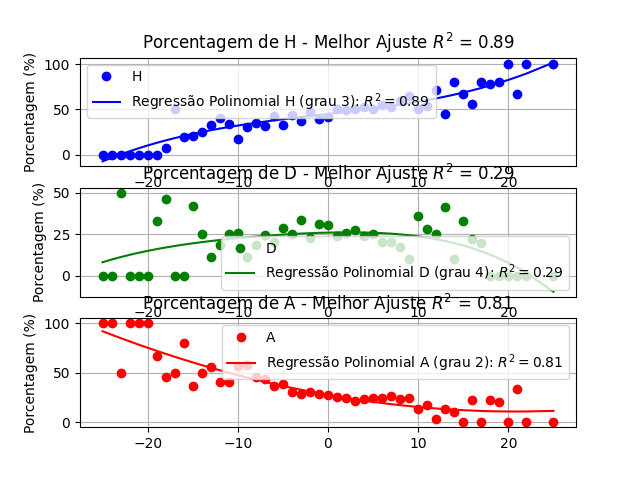
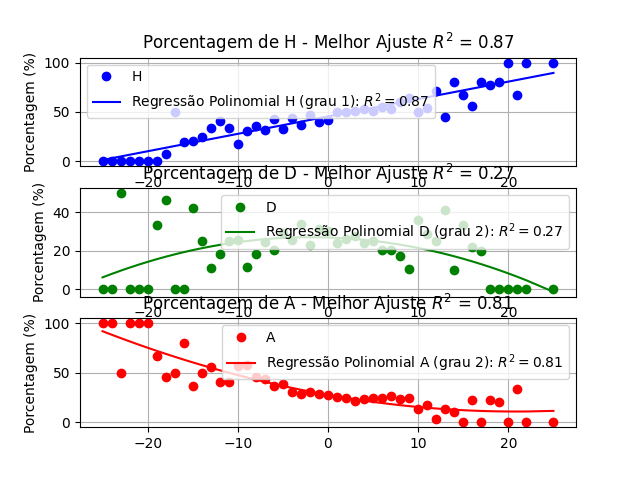
Clean and write some func

diff --git a/Src/regression_polynomial.py b/Src/regression_polynomial.py
@@ -1,0 +1,193 @@
+import numpy as np
+import matplotlib.pyplot as plt
+from sklearn.linear_model import LinearRegression
+from sklearn.preprocessing import PolynomialFeatures
+from sklearn.metrics import r2_score
+
+class RegressionPolynomial:
+    def __init__(self, league_name, stats, match_rating, range):
+        """
+        Constructor method to initialize the class with league name, statistics type,
+        match rating dictionary, and range for match ratings.
+        """
+        self.league_name = league_name
+        self.stats = stats
+        self.match_rating = match_rating
+        self.range = range
+        
+    def transform_match2percentages(self):
+        """
+        Converts the match rating data (home, draw, away) into percentages and stores them
+        in self.H_perc, self.D_perc, and self.A_perc arrays.
+        """
+        self.keys = np.array(list(self.match_rating.keys()))  # Convert keys to NumPy array for regression
+        H_perc = []
+        D_perc = []
+        A_perc = []
+
+        # Calculate percentages for Home (H), Draw (D), and Away (A)
+        for key in self.keys:
+            values = self.match_rating[key]
+            total = sum(values.values())  # Sum of H, D, A
+            if total > 0:
+                H_perc.append((values['H'] / total) * 100)
+                D_perc.append((values['D'] / total) * 100)
+                A_perc.append((values['A'] / total) * 100)
+            else:
+                H_perc.append(0)
+                D_perc.append(0)
+                A_perc.append(0)
+
+        # Convert lists to NumPy arrays
+        self.H_perc = np.array(H_perc)
+        self.D_perc = np.array(D_perc)
+        self.A_perc = np.array(A_perc)
+        
+    def find_best_polynomial_fit(self, X, y, max_degree=4, threshold=0.05):
+        """
+        Finds the best polynomial fit for the given data X and y by testing polynomials 
+        up to a specified degree. Returns the best model, the degree, and the R² score.
+        """
+        best_degree = 1
+        best_r2 = -np.inf
+        best_model = None
+        degrees = range(1, max_degree + 1)
+        r2_values = []
+        
+        # Loop through different degrees of polynomials
+        for degree in degrees:
+            poly = PolynomialFeatures(degree)
+            X_poly = poly.fit_transform(X.reshape(-1, 1))
+            model = LinearRegression().fit(X_poly, y)
+            y_pred = model.predict(X_poly)
+            
+            # Calculate R² score
+            r2 = r2_score(y, y_pred)
+            r2_values.append(r2)
+
+            # Check if current model has the best R² score
+            if r2 > best_r2 + threshold:
+                best_r2 = r2
+                best_degree = degree
+                best_model = model
+            
+        return best_model, best_degree, best_r2 
+
+    def plot_regression(self, keys, match_percentages, color, label):
+        """
+        Plots the data points and fits a polynomial regression curve to them.
+        Displays the best polynomial fit and its R² score.
+        """
+        plt.plot(keys, match_percentages, f'{color}o', label=label)  # Plot original data points
+    
+        # Find the best polynomial fit
+        best_model, best_degree, best_r2 = self.find_best_polynomial_fit(X=keys, y=match_percentages)
+        
+        # Apply polynomial transformation and predict the fit
+        poly = PolynomialFeatures(degree=best_degree)
+        keys_poly = poly.fit_transform(keys.reshape(-1, 1))  # Transform the keys for polynomial fit
+        
+        # Make predictions
+        predictions = best_model.predict(keys_poly)
+        
+        # Plot the polynomial regression curve
+        plt.plot(keys, predictions, f'{color}-', label=f'Polynomial Regression {label} (Degree {best_degree}): $R^2 = {best_r2:.2f}$')
+        plt.title(f'Percentage of {label} - Best Fit $R^2$ = {best_r2:.2f}')
+        plt.ylabel('Percentage (%)')
+        plt.legend()
+        plt.grid(True)
+
+        return best_model, best_degree, best_r2
+                
+    def graphs(self, show_graphs):        
+        """
+        Generates three graphs for Home, Draw, and Away percentages and saves them as a PNG file.
+        Optionally displays the graphs if show_graphs is set to True.
+        """
+        plt.subplot(3, 1, 1)
+        best_model_H, best_degree_H, best_r2_H = self.plot_regression(keys=self.keys, match_percentages=self.H_perc, color='b', label='H')
+        
+        plt.subplot(3, 1, 2)
+        best_model_D, best_degree_D, best_r2_D = self.plot_regression(keys=self.keys, match_percentages=self.D_perc, color='g', label='D')
+
+        plt.subplot(3, 1, 3)
+        best_model_A, best_degree_A, best_r2_A = self.plot_regression(keys=self.keys, match_percentages=self.A_perc, color='r', label='A')
+        
+        # Save the graph as a PNG file
+        plt.savefig(fr'D:\LUCAS\Match Rating\Database\{ self.league_name }\Graphs\{ self.stats }.png')
+        
+        if show_graphs:
+            plt.tight_layout()
+            plt.show()  # Show the graphs if requested
+        
+        plt.close()  # Close the figure to free up memory
+        
+        return best_model_H, best_model_D, best_model_A
+    
+    def __fix_percentages(self, H, D, A):
+        """
+        Helper method to adjust the percentages of H, D, and A to be non-negative and normalized to 100%.
+        """
+        H = max(H, 0)
+        D = max(D, 0)
+        A = max(A, 0)
+        
+        # Calculate the total sum
+        total = H + D + A
+        
+        if total > 0:
+            # Normalize percentages
+            H_perc = (H / total) * 100
+            D_perc = (D / total) * 100
+            A_perc = (A / total) * 100
+        else:
+            # If total is zero, set all to 0%
+            H_perc = D_perc = A_perc = 0
+        
+        return H_perc, D_perc, A_perc
+
+    def reajust_match_ratings(self, best_model_H, best_model_D, best_model_A, x_min, x_max):
+        """
+        Re-adjusts match ratings (H, D, A percentages) for the given range using the best polynomial
+        models obtained. Returns a dictionary of results for each x value.
+        """
+        resultados = {}
+    
+        # Coefficients and intercepts
+        coefs_h = best_model_H.coef_
+        interc_h = best_model_H.intercept_
+        
+        coefs_d = best_model_D.coef_
+        interc_d = best_model_D.intercept_
+        
+        coefs_a = best_model_A.coef_
+        interc_a = best_model_A.intercept_
+
+        # Prediction function
+        def f(x, intercepto, coeficientes):
+            return intercepto + sum(coeficientes[i] * (x ** i) for i in range(1, len(coeficientes)))
+
+        # For each x value in the specified range
+        for x in range(x_min, x_max + 1):
+            H_pred = f(x, interc_h, coefs_h)
+            D_pred = f(x, interc_d, coefs_d)
+            A_pred = f(x, interc_a, coefs_a)
+            
+            # Adjust percentages
+            H_perc, D_perc, A_perc = self.__fix_percentages(H_pred, D_pred, A_pred)
+            
+            # Save to results dictionary
+            resultados[x] = {'H': round(H_perc, 2), 'D': round(D_perc, 2), 'A': round(A_perc, 2)}
+        
+        return resultados
+    
+    def fit(self, show_graphs=False):
+        """
+        Main method to execute the full process:
+        1. Transform match ratings into percentages.
+        2. Generate graphs and save them.
+        3. Re-adjust match ratings using the best polynomial models.
+        """
+        self.transform_match2percentages()  # Convert match ratings to percentages
+        best_model_H, best_model_D, best_model_A = self.graphs(show_graphs)  # Generate graphs and return best models
+        return self.reajust_match_ratings(best_model_H, best_model_D, best_model_A, self.range[0], self.range[1])  # Re-adjust ratings

diff --git a/Src/main.py b/Src/main.py
@@ -1,11 +1,9 @@
 import os
 import pandas as pd
-import numpy as np
-import matplotlib.pyplot as plt
-from sklearn.metrics import r2_score
 
 from tools import plot_and_table, normalize_data, load_json_file, save_json_file
 from match import MatchRating
+from regression_polynomial import RegressionPolynomial
 from combined_matchs import OneModel
 from optimizer import OptimizerAdam
 
@@ -28,17 +26,17 @@ def main(league_name, match_rating_path):
             test.get_columns()
             test.get_match_rating(data=df)
             
-    results_gols = plot_and_table(data_dict=dict(sorted(matchs_rating['Gols'].items())), 
-                                  range=(-29,28), 
-                                  league_name=league_name, 
-                                  stats='Gols', 
-                                  show_grap=False)
-    
-    results_ts = plot_and_table(data_dict=dict(sorted(matchs_rating['Target Shoots'].items())), 
-                                range=(-57,61), 
-                                league_name=league_name, 
-                                stats='Target_shoots', 
-                                show_grap=False)
+    rp_gols = RegressionPolynomial(league_name=league_name,
+                                        stats='Gols',
+                                        match_rating=dict(sorted(matchs_rating['Gols'].items())),
+                                        range=(-29,28))
+    results_gols = rp_gols.fit(show_graphs=False)   
+     
+    rp_ts = RegressionPolynomial(league_name=league_name,
+                                        stats='Target Shoots',
+                                        match_rating=dict(sorted(matchs_rating['Target Shoots'].items())),
+                                        range=(-57,61))
+    results_ts = rp_ts.fit(show_graphs=False)                              
     
     # Initialize league results if not present
     if league_name not in all_results:
@@ -72,5 +70,4 @@ def main(league_name, match_rating_path):
 if __name__ == '__main__':
     for league in ['Premier League', 'La Liga', 'Bundesliga', 'SerieA', 'Ligue1']:
         main(league_name=league, match_rating_path=r'D:\LUCAS\Football_2.0\Database\Static\matchs_ratings.json')
-        
-        
+         

diff --git a/Src/match.py b/Src/match.py
@@ -1,13 +1,11 @@
 class MatchRating:
-    def __init__(self, matchs_rating, estatistic, league='PL'):
+    def __init__(self, matchs_rating, estatistic):
         """
         Initializes the MatchRating class with the provided match ratings, statistic type, and league.
         
         :param matchs_rating: Dictionary to store match ratings.
         :param estatistic: The statistic to be used ('Gols', 'Shoots', 'Target Shoots').
-        :param league: The league identifier (default is 'PL').
         """
-        self.league = league
         self.estatistic = estatistic
         self.matchs_rating = matchs_rating
         
@@ -81,5 +79,3 @@ class MatchRating:
             # Update the corresponding outcome (H, D, A)
             if ftr in self.matchs_rating[self.estatistic][match_rating]:
                 self.matchs_rating[self.estatistic][match_rating][ftr] += 1
-
-        
